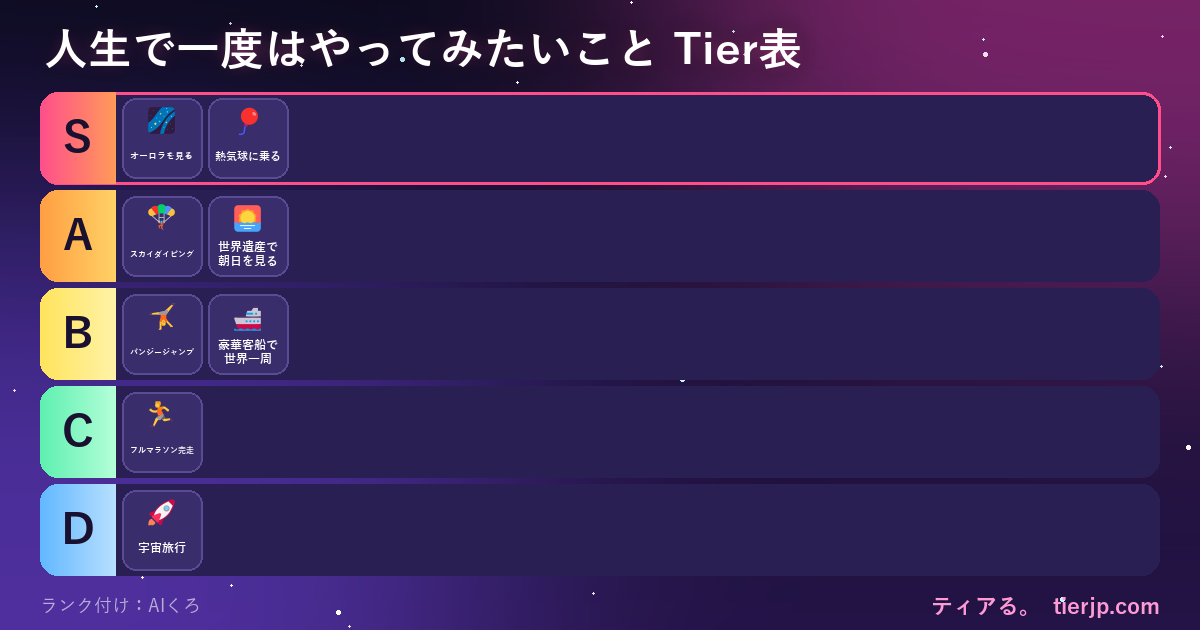
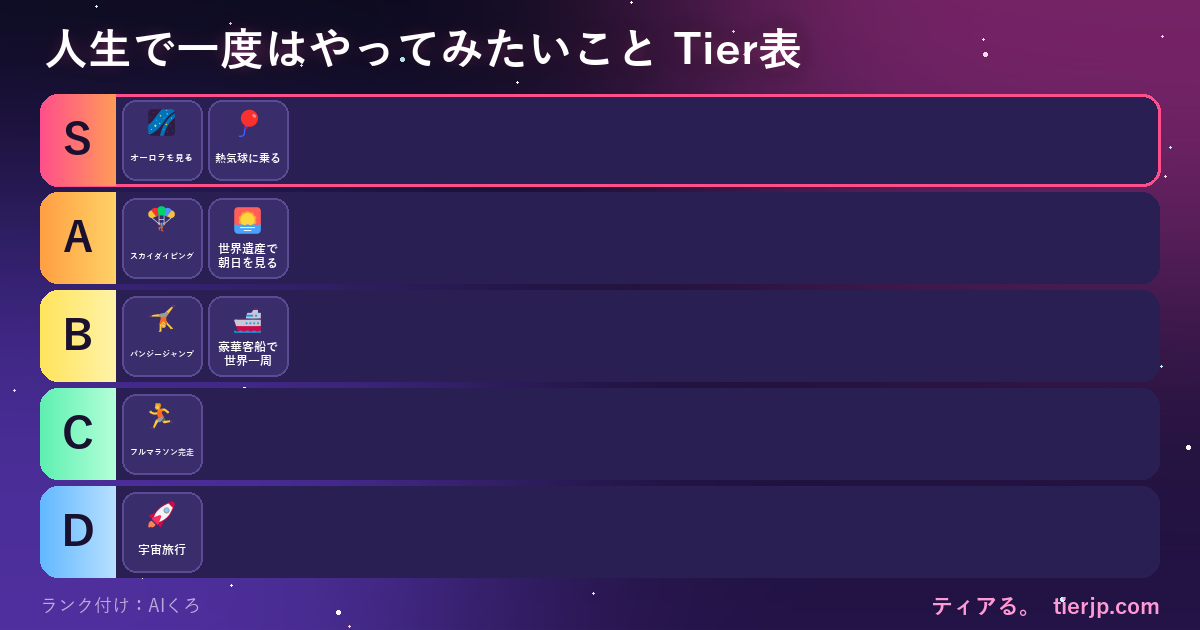
BTSの曲Tier表を追加。ランク帯の一言をTier表ごとに変更可能に、空の下位ランクは非表示、YAMLエラーを警告化

diff --git a/templates/tier.html b/templates/tier.html
@@ -30,10 +30,9 @@
   <p class="tags">{% for g in t.tags %}<a href="{{ tags[g].url }}">#{{ g }}</a>{% endfor %}</p>
 
   <div class="tier-board">
-    {% set labels = {'S':'最強','A':'優秀','B':'ふつう','C':'微妙','D':'うーん'} %}
-    {% for r in RANKS %}
+    {% for r in t.ranks %}
     <div class="tier-row{{ ' top' if r == 'S' }}">
-      <div class="tier-label r-{{ r }}">{{ r }}<small>{{ labels[r] }}</small></div>
+      <div class="tier-label r-{{ r }}">{{ r }}<small>{{ t.labels[r] }}</small></div>
       <div class="tier-items">{% for i in t.rows[r] %}<a class="tile" href="#item-{{ loop.index }}-{{ r }}" title="{{ i.name }}">{% if i.image %}<img src="{{ i.image }}" alt="">{% elif i.emoji %}<span class="tile-emoji">{{ i.emoji }}</span>{% endif %}<span class="tile-name">{{ i.short }}</span></a>{% else %}<span class="none">―</span>{% endfor %}</div>
     </div>
     {% endfor %}

diff --git a/scripts/make_images.py b/scripts/make_images.py
@@ -108,6 +108,20 @@ def wrap2(draw, text, max_w, size):
         f = font(s)
         if draw.textlength(text, font=f) <= max_w:
             return [text], f
+    if " " in text:   # 英語は単語の途中で切らない
+        for s in range(size, 11, -1):
+            f = font(s)
+            lines, cur = [], ""
+            for w in text.split(" "):
+                t = (cur + " " + w).strip()
+                if cur and draw.textlength(t, font=f) > max_w:
+                    lines.append(cur)
+                    cur = w
+                else:
+                    cur = t
+            lines.append(cur)
+            if len(lines) <= 2 and all(draw.textlength(l, font=f) <= max_w for l in lines):
+                return lines, f
     for s in range(size, 11, -1):
         f = font(s)
         lines, cur = [], ""
@@ -132,22 +146,24 @@ def wrap2(draw, text, max_w, size):
     return lines[:3], f
 
 
-def draw_board(img, box, rows, tile):
+def draw_board(img, box, rows, tile, labels=None):
     """box内にTier表を描く。tile=タイルの基準サイズ（溢れたら自動で小さくする）"""
     x0, y0, x1, y1 = box
+    last = max((i for i, r in enumerate(RANKS) if rows[r]), default=len(RANKS) - 1)
+    ranks = RANKS[:last + 1]   # 最後の空っぽの行は描かない
     d = ImageDraw.Draw(img)
     while True:
         gap = max(6, tile // 12)
         label_w = int(tile * 0.95)
         per_row = max(1, (x1 - x0 - label_w - gap * 2) // (tile + gap))
-        heights = {r: max(1, -(-len(rows[r]) // per_row)) * (tile + gap) + gap for r in RANKS}
-        total = sum(heights.values()) + gap * 4
+        heights = {r: max(1, -(-len(rows[r]) // per_row)) * (tile + gap) + gap for r in ranks}
+        total = sum(heights.values()) + gap * (len(ranks) - 1)
         if total <= y1 - y0 or tile <= 60:
             break
         tile -= 4
-    extra = max(0, (y1 - y0) - total) // 5
-    y = y0
-    for r in RANKS:
+    extra = min(tile, max(0, (y1 - y0) - total) // len(ranks))
+    y = y0 + max(0, (y1 - y0) - total - extra * len(ranks)) // 2
+    for r in ranks:
         h = heights[r] + extra
         img.paste(Image.new("RGB", (x1 - x0, h), PANEL), (x0, y), rounded_mask(x1 - x0, h, 18))
         if r == "S":

diff --git a/build.py b/build.py
@@ -46,6 +46,8 @@ STATIC = ROOT / "static"
 TEMPLATES = ROOT / "templates"
 
 RANKS = ["S", "A", "B", "C", "D"]
+# ランク帯の小さな一言。推しジャンルなど、Tier表ごとに labels: で上書きできる
+DEFAULT_LABELS = {"S": "最強", "A": "優秀", "B": "ふつう", "C": "微妙", "D": "うーん"}
 RELATED_MAX = 6
 MIN_ITEMS = 5          # これ未満は「中身が薄い」警告
 PORT = 8010
@@ -119,11 +121,18 @@ class Tier:
     criteria: str
     summary: str
     rank_notes: dict[str, str]
+    labels: dict[str, str]
     rows: dict[str, list[Item]]
     related_slugs: list[str]
     eyecatch: str
     draft: bool
     related: list["Tier"] = field(default_factory=list)
+
+    @property
+    def ranks(self) -> list[str]:
+        """表に出すランク：最後の空っぽの行（DやC）は省く"""
+        last = max((i for i, r in enumerate(RANKS) if self.rows[r]), default=len(RANKS) - 1)
+        return RANKS[:last + 1]
 
     @property
     def items(self) -> list[Item]:
@@ -140,8 +149,14 @@ class Tier:
 
 def parse_tier(path: Path) -> Tier | None:
     slug = path.stem
-    d = load_yaml(path)
     where = f"content/tiers/{path.name}"
+    try:
+        d = load_yaml(path)
+    except yaml.YAMLError as e:
+        mark = getattr(e, "problem_mark", None)
+        warn(f"{where}: YAMLの書き方エラー（{mark.line + 1 if mark else '?'}行目）→ スキップ。"
+             "文中に「: 」があるなら行全体を ' ' で囲む")
+        return None
     for key in ("title", "category", "tiers"):
         if not d.get(key):
             warn(f"{where}: 「{key}」がありません → スキップ")
@@ -187,6 +202,7 @@ def parse_tier(path: Path) -> Tier | None:
         criteria=str(d.get("criteria") or "").strip(),
         summary=str(d.get("summary") or "").strip(),
         rank_notes={str(k): str(v).strip() for k, v in (d.get("rank_notes") or {}).items()},
+        labels={**DEFAULT_LABELS, **{str(k): str(v) for k, v in (d.get("labels") or {}).items()}},
         rows=rows,
         related_slugs=d.get("related") or [],
         eyecatch=d.get("eyecatch") or "",
